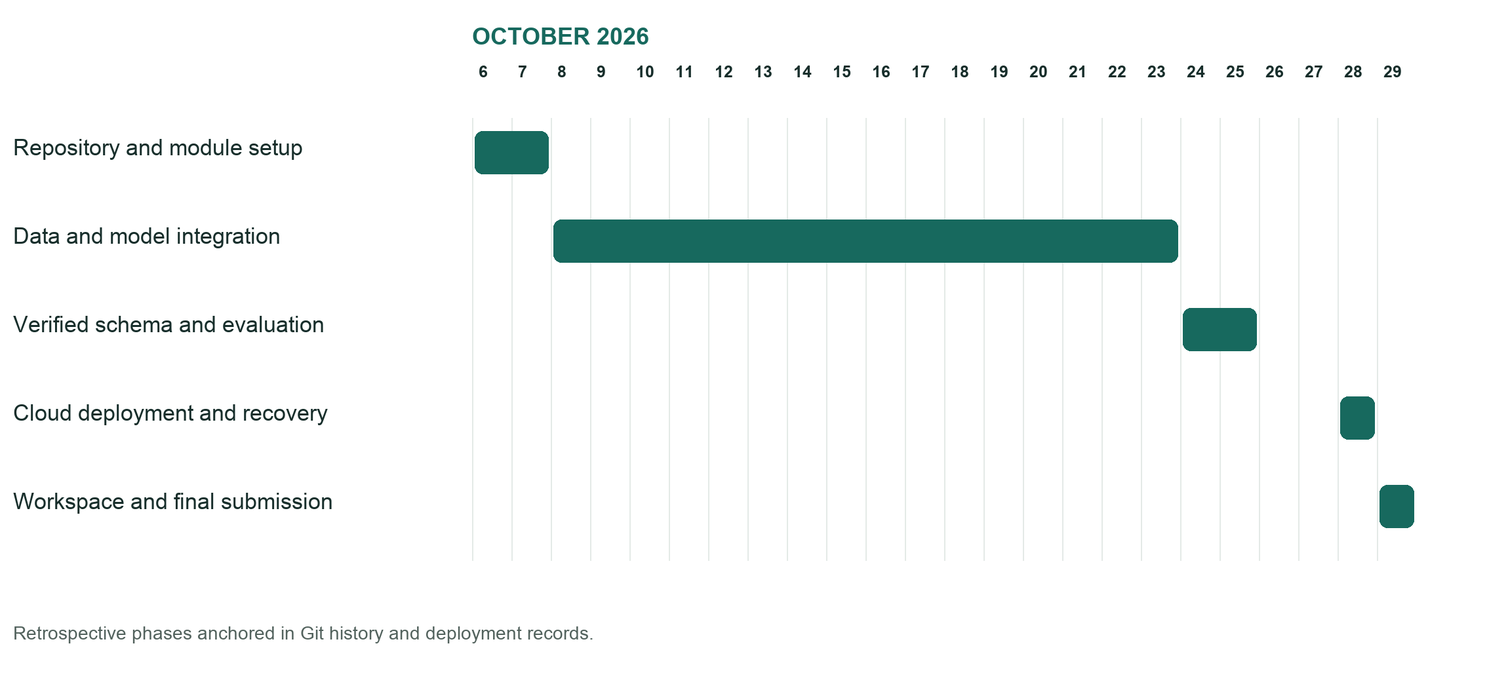
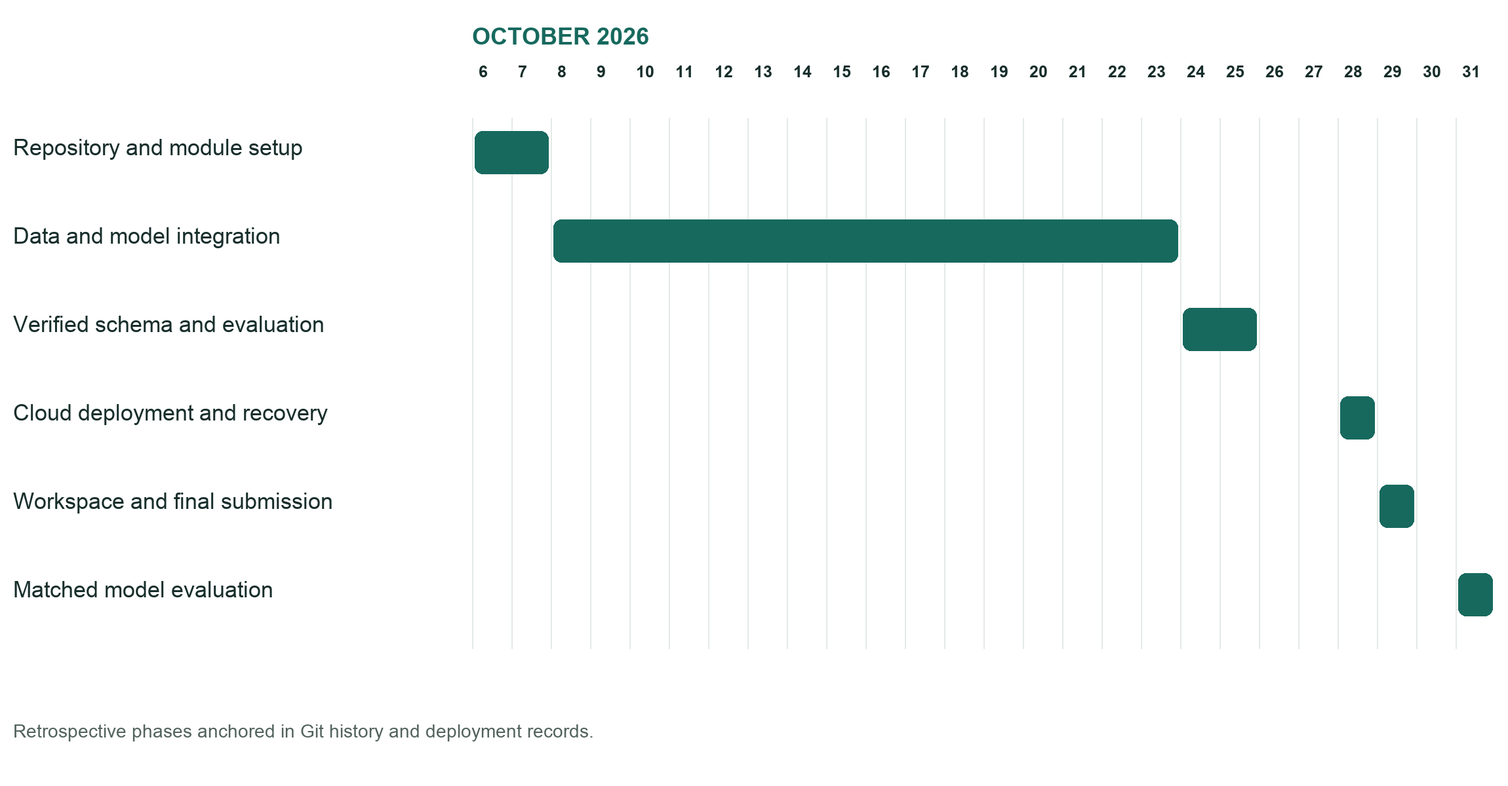
docs: refresh faculty submission with verified matched benchmarks

diff --git a/scripts/build_submission_report.py b/scripts/build_submission_report.py
@@ -1,8 +1,8 @@
 #!/usr/bin/env python3
 """Build the faculty report from public evidence and an ignored private team file.
 
-Use the Codex bundled Python runtime with python-docx and Pillow installed.
-Render/inspect the result with the bundled documents render_docx.py before delivery.
+Requires Python with python-docx and Pillow installed.
+Render and visually inspect the report before distribution.
 """
 from pathlib import Path
 import argparse
@@ -10,6 +10,8 @@ import json
 import re
 import shutil
 import textwrap
+from datetime import datetime, timezone
+from zoneinfo import ZoneInfo
 
 from PIL import Image, ImageDraw, ImageFont
 from docx import Document
@@ -48,16 +50,16 @@ d.text((560,235),'HTTPS / same-origin proxy',font=font(30),fill=gray)
 im.save(assets/'architecture.png',dpi=(300,300))
 
 # Retrospective schedule uses visible repository/deployment milestone ranges.
-im=Image.new('RGB',(2300,1050),'white');d=ImageDraw.Draw(im)
-labels=['Repository and module setup','Data and model integration','Verified schema and evaluation','Cloud deployment and recovery','Workspace and final submission']
-phases=[(0,1),(2,17),(18,19),(22,22),(23,23)]
+im=Image.new('RGB',(2300,1200),'white');d=ImageDraw.Draw(im)
+labels=['Repository and module setup','Data and model integration','Verified schema and evaluation','Cloud deployment and recovery','Workspace and final submission','Matched model evaluation']
+phases=[(0,1),(2,17),(18,19),(22,22),(23,23),(25,25)]
 left=720;top=180;cell=60;rh=135
-for j,day in enumerate(range(6,30)):
+for j,day in enumerate(range(6,32)):
  x=left+j*cell;d.text((x+10,top-85),str(day),font=font(25,True),fill=ink);d.line((x,top,x,top+len(labels)*rh),fill='#e4eae7',width=2)
 d.text((left,35),'OCTOBER 2026',font=font(36,True),fill=teal)
 for i,(label,(start,end)) in enumerate(zip(labels,phases)):
  y=top+i*rh;d.text((20,y+26),label,font=font(34),fill=ink);d.rounded_rectangle((left+start*cell+4,y+20,left+(end+1)*cell-4,y+85),radius=12,fill=teal)
-d.text((20,950),'Retrospective phases anchored in Git history and deployment records.',font=font(28),fill=gray)
+d.text((20,1100),'Retrospective phases anchored in Git history and deployment records.',font=font(28),fill=gray)
 im.save(assets/'gantt.png',dpi=(300,300))
 
 # Domain ER plates contain every current table, with repeated context entities.
@@ -104,9 +106,6 @@ for name,names in groups.items():
  d.text((40,h-26),'Child FK -> parent | Full attributes and nullable relationships: ERD.md and appendix',font=font(20),fill=gray)
  im.save(assets/f'erd-{name}.png',dpi=(300,300))
 assert covered==set(tables),('Missing ERD entities',set(tables)-covered)
-for src,dst in [('redesign-home.png','model-results-live.png'),('redesign-history.png','history-live.png')]:
- if (root/'.deployment'/src).exists() and not (assets/dst).exists():shutil.copyfile(root/'.deployment'/src,assets/dst)
-
 # Formal report, with editable text and a full dictionary appendix.
 doc=Document();sec=doc.sections[0];sec.page_width=Inches(8.5);sec.page_height=Inches(11)
 sec.top_margin=sec.bottom_margin=Inches(.8);sec.left_margin=sec.right_margin=Inches(1)
@@ -161,7 +160,7 @@ p=para('Final Project Submission','Subtitle');p.alignment=WD_ALIGN_PARAGRAPH.CEN
 p=para('A relational review investigation system with verified graph model inference');p.alignment=WD_ALIGN_PARAGRAPH.CENTER
 para('')
 tab(['Team member','Registration number'],[[m[0],m[1]] for m in team['members']],[3.8,2.7])
-tab(['Course details','Confirmed submission information'],[['Course',team['course']+'  '+team['code']],['Class number',team['class_number']],['Lab slot',team['slot']],['Course faculty',team['faculty']],['Submission date','29 October 2026']])
+tab(['Course details','Confirmed submission information'],[['Course',team['course']+'  '+team['code']],['Class number',team['class_number']],['Lab slot',team['slot']],['Course faculty',team['faculty']],['Submission date',datetime.now(ZoneInfo('Asia/Kolkata')).strftime('%d %B %Y')]])
 para('Live application: https://frontend-three-snowy-10.vercel.app')
 para('Private submission source: https://github.com/Avaneeshchavan/neurograph-db-submission')
 doc.add_page_break()
@@ -185,7 +184,7 @@ while i<len(lines):
  if s.startswith('!['):
   m=re.match(r'!\[(.*?)\]\((.*?)\)',s);path=root/'docs/submission'/m.group(2)
   is_erd='/erd-' in str(path)
-  if 'live.png' in str(path):doc.add_page_break()
+  if 'live.png' in str(path) or 'live.jpg' in str(path):doc.add_page_break()
   if is_erd and not str(path).endswith('erd-identity.png'):doc.add_page_break()
   im=Image.open(path);maxw=6.5;maxh=7.5 if is_erd else 6.8
   width=min(maxw,maxh*im.width/im.height)
@@ -238,6 +237,8 @@ para('Credentials are provided separately. Do not project passwords, private key
 doc.core_properties.title='NeuroGraph Database Systems Project'
 doc.core_properties.subject='Database Systems Lab final project submission'
 doc.core_properties.author='Avaneesh Chavan; Eldo John Giby; Anubhav Bhattacharya'
+doc.core_properties.created=datetime.now(timezone.utc)
+doc.core_properties.modified=doc.core_properties.created
 doc.core_properties.comments=''
 # Remove inherited title rules; formal report titles use whitespace only.
 for element in list(doc.styles.element.iter(qn('w:pBdr'))) + list(doc.element.iter(qn('w:pBdr'))):

diff --git a/scripts/package_submission.py b/scripts/package_submission.py
@@ -33,6 +33,7 @@ Source snapshot: NeuroGraph_DB_Source.zip
 Current source commit: '''+sha+'''
 
 Live app: https://frontend-three-snowy-10.vercel.app
+Controlled model comparison: https://frontend-three-snowy-10.vercel.app/benchmarks
 Public team source: https://github.com/Eldo-John-Giby/NeuroGraph-DB
 Private course source: https://github.com/Avaneeshchavan/neurograph-db-submission
 
@@ -42,13 +43,22 @@ progressive commit history. Main and dev branches are available on GitHub.
 
 Share the faculty RESEARCHER login separately and privately. No password,
 private key, cloud token or native database dump is included in this ZIP.
-Large verified ML bundles are distributed separately; see the source runbooks.
+Benchmark_results.csv and Benchmark_report.json contain the controlled results.
+The four architectures use the same chronological train/validation/test split.
+The older experiments are historical records, excluded from the matched ranking.
+Concatenation has the highest three-seed mean; NeuroGraph has the highest
+seed-42 macro F1. Neither result establishes universal superiority.
+
+NeuroGraph_DB_ML_Artifacts.zip is a separate private reproduction companion.
+It contains checkpoints, prediction arrays and the sealed serving bundle;
+raw source reviews and pretrained encoder weights are obtained separately.
+See docs/benchmarks/README.md in the source for fingerprints and commands.
 The live application already has its verified bundles installed.
 
 The course handout specifies no submission destination. This package has not
 been emailed or uploaded to a course portal. Use the faculty's prescribed
-portal or channel when it is known. No signed declaration or faculty approval
-has been fabricated.
+portal or channel when it is known. Faculty approval and final portal handover
+follow the course's prescribed process.
 
 Bonus evidence: successful GitHub Actions, automated testing and audit logging.
 Custom domain and Docker Hub publication are not claimed. See the normalization
@@ -57,6 +67,8 @@ section for the explicit physical provenance redundancy qualification.
 (out/'SUBMISSION_GUIDE.txt').write_text(guide)
 files=reports+[source,out/'GIT_HISTORY.txt',out/'SUBMISSION_GUIDE.txt']
 entries={f.name:f for f in files}
+entries['Benchmark_results.csv']=root/'docs/benchmarks/results.csv'
+entries['Benchmark_report.json']=root/'docs/benchmarks/comparison.json'
 for f in (root/'docs/submission').rglob('*'):
  if f.is_file():entries['Evidence/'+str(f.relative_to(root/'docs/submission'))]=f
 manifest={'source_commit':sha,'report_pages':review['pages'],'files':{name:{'bytes':f.stat().st_size,'sha256':hashlib.sha256(f.read_bytes()).hexdigest()} for name,f in entries.items()}}

diff --git a/docs/submission/REPORT.md b/docs/submission/REPORT.md
@@ -6,6 +6,8 @@ NeuroGraph-DB is a review investigation application that stores review identitie
 
 The final deployed model is a temporal inductive RoBERTa and relational graph model. Its verified chronological test ROC-AUC is 0.8105, F1 macro is 0.6624 and PR-AUC is 0.4211 on 9,436 unseen test reviews. The model's output is an investigation signal. It does not prove that a review is fraudulent and it does not establish accuracy on an unlabelled user upload.
 
+A controlled four-model comparison now holds the real-data identities and chronological split fixed. Across seeds 42/43/44, simple concatenation has the highest mean metrics; the deployed NeuroGraph checkpoint has the highest macro F1 for seed 42. The project does not claim that text-conditioned attention consistently beats concatenation.
+
 The database contribution is the durable, secure workflow around those model results: normalized source identities, foreign-key integrity, versioned evidence, transactional CSV intake, requester-specific result history, audited human feedback and native recovery. PostgreSQL is the authoritative database; Neo4j is a relationship projection. A clearly labelled synthetic case study supports demonstration without being presented as the model's measured performance.
 
 ## 2 Problem statement and objectives
@@ -121,7 +123,7 @@ The application joins batch rows to reviews, products and authors for investigat
 | vw_batch_analysis_summary | LEFT JOIN from upload receipts to their inference-run predictions; COUNT, SUM of flagged decisions and AVG risk grouped per batch |
 | vw_product_review_summary | LEFT JOIN from products to reviews; COUNT reviews and AVG rating grouped per product, including products without reviews |
 
-The production administrator summary at verification contained 18 upload receipts, 72 saved predictions, 193 products and 28,427 reviews. These include all users and reference data. They are not metrics for one uploaded file and are not the final model's test sample size.
+At the 29 October 2026 verification, the production administrator summary contained 18 upload receipts, 72 saved predictions, 193 products and 28,427 reviews. These include all users and reference data. They are not metrics for one uploaded file and are not the final model's test sample size.
 
 ### Stored procedure and trigger
 
@@ -143,11 +145,43 @@ The upload form selects a compatible historical context. The older known-node mu
 
 The graph initially shows all available relations and reports the number of shown links. Explanations use genuine saved relation attention where provided, rather than assigning a made-up explanation from the risk threshold. The application uses a connected review/evidence logo and matching browser icon. Responsive layouts and accessible labels support desktop and smaller screens.
 
-![Final model workspace](assets/model-results-live.png)
+![Final model workspace](assets/model-results-live.jpg)
 
 ![Personal saved analysis history](assets/history-live.png)
 
 ![Audited feedback and administrator moderation](assets/feedback-live.png)
+
+### Controlled model comparison
+
+The Model comparison page at /benchmarks addresses the earlier lack of a like-for-like architecture comparison. All four arms share the exact 47,176 raw review identities, chronological train/validation/test membership, source label mapping and validation-selection objective. The test has 9,436 reviews, including 1,251 spam and 8,185 nonspam labels. Text-enabled arms share the frozen RoBERTa vectors; graph-enabled arms share the same 14 features and causal RUR/RSR/RTR edges. Input modalities and trainable parameter counts intentionally differ as architecture ablations.
+
+For seed 42, the NeuroGraph arm reuses the sealed deployed checkpoint and reproduces its recorded metrics within 1e-6. The other arms are trained under the fixed plan. Seeds 43 and 44 provide additional training initializations without changing dataset membership. All use hidden width 128, dropout 0.2, AdamW learning rate 0.001, weight decay 0.0001, class-weighted cross entropy, a maximum of 80 epochs and patience 12. The selected epoch and one of 199 cutoffs are chosen by validation macro F1 before test metrics are calculated.
+
+| Seed 42 architecture | ROC-AUC | Average precision | Macro F1 |
+|---|---:|---:|---:|
+| Text only | 0.7835 | 0.4035 | 0.6475 |
+| Graph only | 0.7373 | 0.2685 | 0.5974 |
+| Text + graph concatenation | 0.8109 | 0.4213 | 0.6592 |
+| NeuroGraph | 0.8105 | 0.4211 | 0.6624 |
+
+NeuroGraph has the highest macro F1 for seed 42. Concatenation has slightly higher seed-42 ROC-AUC and average precision. These metric-specific observations are not a universal superiority claim.
+
+| Architecture across 3 seeds | ROC-AUC mean and SD | AP mean and SD | Macro F1 mean and SD |
+|---|---:|---:|---:|
+| Text only | 0.7821 ± 0.0015 | 0.4011 ± 0.0024 | 0.6499 ± 0.0022 |
+| Graph only | 0.7389 ± 0.0016 | 0.2687 ± 0.0020 | 0.5983 ± 0.0020 |
+| Text + graph concatenation | 0.8110 ± 0.0034 | 0.4222 ± 0.0099 | 0.6628 ± 0.0034 |
+| NeuroGraph | 0.8084 ± 0.0033 | 0.4154 ± 0.0162 | 0.6589 ± 0.0033 |
+
+Concatenation has the highest three-seed mean. Both combined arms outperform the single-modality arms in these recorded runs. The attention/gate does not demonstrate a consistent metric improvement over simple concatenation. SD is sample standard deviation across training seeds, not a confidence interval; a small mean difference is not presented as established statistical superiority. No production checkpoint was replaced by selecting the highest test score.
+
+The site provides selectable seeds/mean, zero-to-one metric bars, ROC and precision-recall curves, recorded cutoffs and download links. It additionally tests missing-context sensitivity by independently removing links with probability 10%, 30% or 50%, using a fixed label-independent seed and frozen weights/cutoffs. This is not an LLM camouflage or real coordinated-attack robustness claim.
+
+The earlier 45,954-node structured MAT run (0.9331 ROC-AUC), random-split raw known-node run (0.8439) and deployed temporal checkpoint (0.8105) remain visible as historical records below the matched charts. They are excluded from the new ranking because their representations or evaluation rules differ. The 5,000-node near-perfect prototype tables were synthetic, with label-conditioned features and links, and are superseded as real-data performance evidence.
+
+The comparison is retrospective on the existing holdout rather than a new independent blind dataset. Source timestamps have day-level resolution, so review-ID ordering within a day is a replay convention rather than verified real arrival time. The modality comparison does not isolate graph links from the numeric features added alongside them. The original deployed checkpoint was GPU-trained; added runs train on CPU using the same optimization settings, with recorded environments. Temporal replay permits earlier unlabelled arrivals as context, whereas a live snapshot/upload can supply different history. These limitations and the imperfect Yelp reference labels are documented beside the results. The report JSON, per-run logs, validation selections and artifact fingerprints are committed; raw reviews, checkpoints and prediction arrays remain private/local dependencies.
+
+![Controlled comparison on the shared chronological test](assets/model-comparison-live.jpg)
 
 ## 9 Authentication authorization and security
 
@@ -175,7 +209,9 @@ The cloud patch also retained a native database export and the previous backend 
 |---|---|
 | Backend suite with disposable PostgreSQL | 85 passed, 0 failed, 0 skipped |
 | Clean checkout without private bundles | 73 passed; 12 explicit bundle-dependent skips; PostgreSQL tests included |
-| Frontend authentication regressions | 10 passed, 0 failed |
+| Frontend authentication regressions | 10 passed, 0 failed; rerun 31 October |
+| Matched benchmark scientific contracts | 6 passed; thresholds, sparse gradients, shared labels, metric reproduction and publication identity checked |
+| Responsive comparison interface | Desktop and phone views, seed selection and metric switching verified |
 | Production frontend build | Compiled successfully with type and lint checks |
 | Native backup and restore | Equal table counts, preserved source and 30 joined prediction-provenance records |
 | Live application feedback workflow | Create/read/update/delete, admin resolution, locked resolved notes, validation and role denial passed |
@@ -189,7 +225,7 @@ The AWS deployment uses an active Free account plan and refuses scripted mutatio
 
 The repositories preserve progressive history exceeding ten meaningful commits and provide main and dev branches. The public team repository remains updated. A private submission mirror exists under Avaneesh Chavan's account; the approved existing teammates have been invited with push permission and must accept those invitations. Secrets, dumps, local submission identities, large private bundles and rendered intermediates are excluded from commits.
 
-The corrected GitHub Actions workflow tests the actual FastAPI service rather than the archived Express prototype. The verified successful run is https://github.com/Eldo-John-Giby/NeuroGraph-DB/actions/runs/40781489918. Its backend, frontend and container jobs all completed successfully. It runs the API/model-contract suite and real PostgreSQL migrations, Next.js lint/build and authentication tests, and a deployable Docker build. Standard Linux runners execute on the public source repository; hosted jobs skip the private mirror to avoid consuming metered allowances. No workflow embeds cloud credentials or launches an unguarded paid deployment.
+The corrected GitHub Actions workflow tests the actual FastAPI service rather than the archived Express prototype. The verified successful run is https://github.com/Eldo-John-Giby/NeuroGraph-DB/actions/runs/41132134731. Its backend, frontend and container jobs all completed successfully. It runs the API/model-contract suite and real PostgreSQL migrations, Next.js lint/build and authentication tests, and a deployable Docker build. Standard Linux runners execute on the public source repository; hosted jobs skip the private mirror to avoid consuming metered allowances. No workflow embeds cloud credentials or launches an unguarded paid deployment.
 
 The CI pipeline supports the +1 pipeline bonus, subject to faculty evaluation and successful run evidence. Automated regression tests, trigger-based audit logging, verified recovery and measured query-plan evidence support the additional industry-practice +1 category. These practices are not counted as several separate bonus marks.
 
@@ -197,13 +233,15 @@ The default Vercel and sslip.io addresses are provider hostnames, not a claimed 
 
 ## 13 Faculty demonstration and submission contents
 
-The suggested demonstration starts with final model results, uploads the sample CSV, reopens its saved history and graph, demonstrates feedback CRUD as a researcher, and resolves another note as administrator. The database portion shows the complete ERD, current migration, views, trigger, procedure, actual PostgreSQL tests and native restore evidence. The repository portion shows progressive history, main/dev, private collaboration and the CI run.
+The suggested demonstration starts with final model results and the shared-test comparison, then uploads the sample CSV, reopens its saved history and graph, demonstrates feedback CRUD as a researcher, and resolves another note as administrator. The database portion shows the complete ERD, current migration, views, trigger, procedure, actual PostgreSQL tests and native restore evidence. The repository portion shows progressive history, main/dev, private collaboration and the CI run.
 
 The ZIP includes the PDF report and editable Word report, README and rubric mapping, complete schema/ERD/dictionary sources, screenshots, executed evidence JSON, a credential-free source snapshot and a short submission guide. Large model bundles, production database dumps and infrastructure secrets are excluded. The live demo supplies inference; the reproduction runbooks identify the exact separate artifacts required for offline scoring.
 
 The faculty handout specifies the live URL and engineering requirements, but does not identify a submission portal, email recipient, report template or mandatory filename. The package is prepared for course submission. It has not been sent to the faculty or uploaded to an unspecified course portal.
 
 ## 14 Limitations and future development
+
+The controlled benchmark does not show a consistent gain from attention over concatenation. The three-seed results describe initialization variation on a reused split; they are not independent domain validation or evidence against all existing fraud detectors.
 
 The project is an academic investigation aid with evidence-backed predictions, not a production fraud decision system. The chronological evaluation has nonzero error and moderate PR-AUC; calibration, drift monitoring and independent domain validation would be needed before operational decisions. Attention is descriptive model evidence and is not a causal proof.
 
@@ -224,3 +262,11 @@ GitHub Actions workflow and billing documentation. https://docs.github.com/en/ac
 Vercel domain configuration documentation. https://vercel.com/docs/domains/working-with-domains/add-a-domain
 
 NeuroGraph verified run records and reproduction instructions, included in docs/runs and the inductive/multimodal runbooks. Results from different protocols are reported separately.
+
+Hamilton, W. L., Ying, R. and Leskovec, J. Inductive Representation Learning on Large Graphs. NeurIPS 2017. https://arxiv.org/abs/1706.02216
+
+Liu, Y. and colleagues. RoBERTa A Robustly Optimized BERT Pretraining Approach. 2019. https://arxiv.org/abs/1907.11692
+
+Rayana, S. and Akoglu, L. Collective Opinion Spam Detection Bridging Review Networks and Metadata. KDD 2015. Dataset description and filtering-label limitations: https://shebuti.com/yelpchi-dataset/
+
+Controlled comparison protocol, training logs and results: docs/benchmarks/README.md, protocol.json, comparison.json and results.csv. Average precision is calculated with scikit-learn: https://scikit-learn.org/stable/modules/generated/sklearn.metrics.average_precision_score.html

diff --git a/docs/benchmarks/README.md b/docs/benchmarks/README.md
@@ -57,7 +57,7 @@ The website displays all three earlier experiment records separately:
 | Earlier raw multimodal | 47,176 rows; stratified random 28,305 / 9,435 / 9,436 split; known nodes | 0.8439 |
 | Deployed inductive checkpoint | 47,176 rows; chronological 28,305 / 9,435 / 9,436 split; temporal replay | 0.8105 |
 
-They are excluded from a shared ranking because the first two have different representations or evaluation rules. Their records remain in [docs/runs](../runs/). The deployed checkpoint is also the NeuroGraph seed-42 arm in the new matched comparison.
+The MAT source is `zhouxuanmingchen/yelp-fraud-processed/YelpChi.mat`; both raw experiments use `samygithub/collective-opinion-spam-detection/training_data.csv`. Their row identities are not interchangeable. They are excluded from a shared ranking because the first two have different representations or evaluation rules. Their records remain in [docs/runs](../runs/). The deployed checkpoint is also the NeuroGraph seed-42 arm in the new matched comparison.
 
 ## Provenance and reproduction
 
@@ -73,7 +73,7 @@ The original checkpoint was GPU-trained; added runs use CPU with the same optimi
 
 ## Interpretation limits
 
-This is a retrospective comparison using the existing holdout, not a new independent blind dataset. Three seeds describe training variation on one fixed split, not uncertainty over all future datasets. The Yelp filtering reference labels are imperfect. Replay can use earlier unlabelled arrivals; a live upload's fixed snapshot and batch can supply less history. New user files without true labels have predictions but no measured accuracy. Attention is not causal proof, and scores are not separately probability-calibrated.
+This is a retrospective comparison using the existing holdout, not a new independent blind dataset. Source timestamps have day-level resolution; review-ID ordering within a day defines a deterministic replay rather than a verified real arrival sequence. Combined-vs-text-only gains may reflect numeric features as well as links; a separate no-link retraining ablation was not measured. Three seeds describe training variation on one fixed split, not uncertainty over all future datasets. The Yelp filtering reference labels are imperfect. Replay can use earlier unlabelled arrivals; a live upload's fixed snapshot and batch can supply less history. New user files without true labels have predictions but no measured accuracy. Attention is not causal proof, and scores are not separately probability-calibrated.
 
 The old 5,000-node synthetic fixture and near-perfect Protocol A/B tables are superseded. Label-conditioned synthetic features and links cannot establish real-data detection or LLM camouflage robustness. See [the provenance audit](../MODEL_AUDIT.md).
 

diff --git a/docs/MODEL_CARD.md b/docs/MODEL_CARD.md
@@ -28,4 +28,4 @@ The [matched benchmark](benchmarks/README.md) uses this checkpoint as its seed-4
 
 ## Limitations
 
-The existing holdout is reused for a retrospective comparison. Three seeds measure initialization variation on one split, not independent data uncertainty. Historical Yelp labels are imperfect and domain transfer to current e-commerce or AI-written reviews is unverified. Long reviews are truncated. Replay includes earlier unlabelled arrivals; live snapshots/batches can provide less context. Uploaded files without true labels have predictions but no measured accuracy. Missing-context edge removal tests sensitivity, not demonstrated resistance to real attacks.
+The existing holdout is reused for a retrospective comparison. Day-level timestamps and review-ID tie-breaking define replay order, not verified within-day arrival time. The modality comparison does not separately isolate link contribution from numeric features. Three seeds measure initialization variation on one split, not independent data uncertainty. Historical Yelp labels are imperfect and domain transfer to current e-commerce or AI-written reviews is unverified. Long reviews are truncated. Replay includes earlier unlabelled arrivals; live snapshots/batches can provide less context. Uploaded files without true labels have predictions but no measured accuracy. Missing-context edge removal tests sensitivity, not demonstrated resistance to real attacks.

diff --git a/docs/submission/README.md b/docs/submission/README.md
@@ -15,6 +15,8 @@ The rubric does not specify an upload portal, filename, report template or elect
 
 The updated [benchmark method and results](../benchmarks/README.md) compares four architectures on the same real-data chronological split and records three training seeds. The report preserves the metric-specific outcome: concatenation has the highest mean, while the deployed NeuroGraph checkpoint has the highest seed-42 macro F1. The old synthetic near-perfect tables are excluded. Published JSON, curves, training logs and artifact manifests accompany the source.
 
+The submission ZIP includes the benchmark CSV and full JSON alongside the report. A separate private `NeuroGraph_DB_ML_Artifacts.zip` contains all twelve matched checkpoints/prediction records and the sealed serving bundle. It is excluded from the small course ZIP and public Git history; raw review text and credentials are excluded from both packages. Extract the companion at the repository root and follow the benchmark runbook for offline reproduction.
+
 ## Evidence interpretation
 
 The project has 23 application tables and 37 FK columns, all represented in the complete generated ERD. Do not use the older 18-table diagrams as the final schema. PostgreSQL views/procedure/trigger are installed by migration 0007. Tests use a disposable database and do not alter production predictions.
